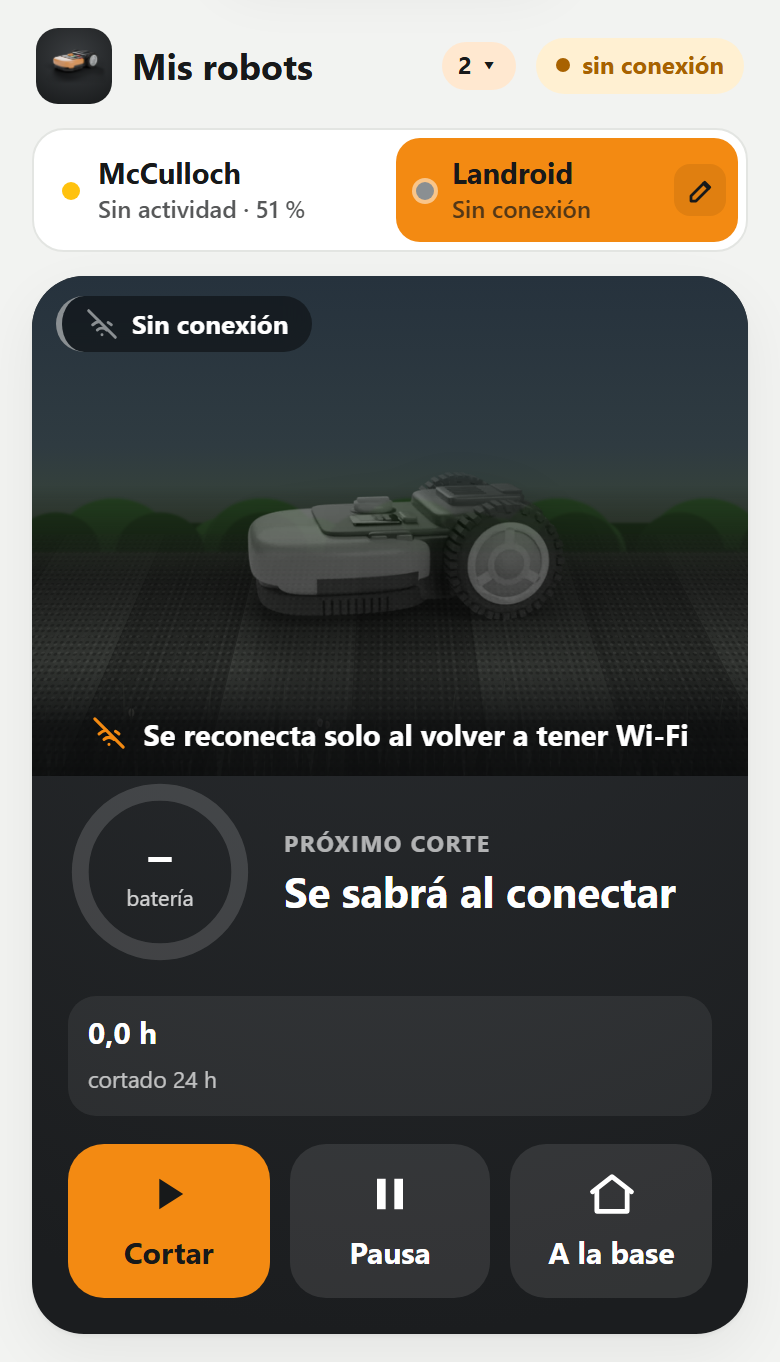
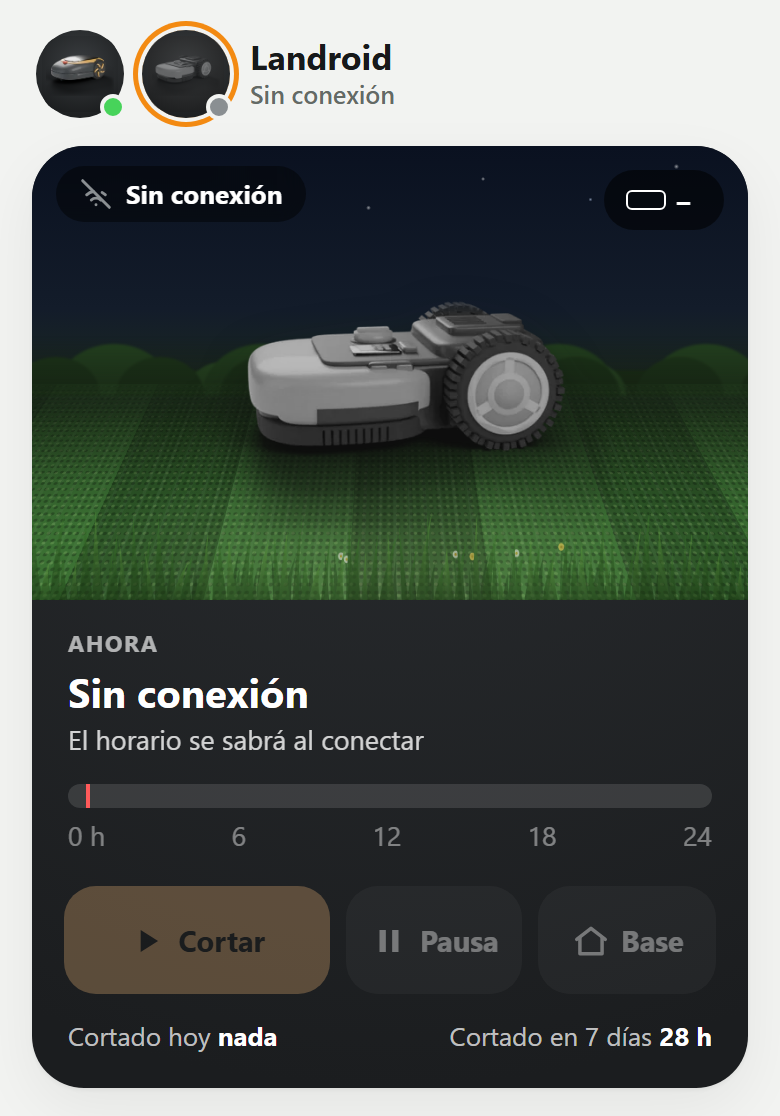
Pasada de fallos: historial sin horas fantasma, avisos sin duplicados, capturas nuevas (v0.3.35)

diff --git a/robot_panel/robot/index.html b/robot_panel/robot/index.html
@@ -812,6 +812,7 @@ document.addEventListener('visibilitychange', () => { if (!document.hidden) chec
 const h1 = v => Number(v).toLocaleString('es-ES', {minimumFractionDigits: 1, maximumFractionDigits: 1});
 // duraciones como en un reloj: «5:20 h» y «45 min», no «5,3 h» ni «0,7 h»; corto = para las barras estrechas («5:20», «45m»)
 const hhmm = (ms, corto) => { const m = Math.round(ms / 6e4); if (m < 60) return m + (corto ? 'm' : ' min');
+  if (m % 60 === 0) return m / 60 + (corto ? 'h' : ' h');  // horas justas: «24 h», que «24:00 h» parece una hora del día
   const t = Math.floor(m / 60) + ':' + String(m % 60).padStart(2, '0'); return corto ? t : t + ' h'; };
 function toast(m){ const t = $('#toast'); t.textContent = m; t.classList.add('show'); clearTimeout(toast.t); toast.t = setTimeout(() => t.classList.remove('show'), 3200); }
 
@@ -989,7 +990,9 @@ function pickRobot(id){
   const app = $('.app'); app.classList.remove('swap'); void app.offsetWidth; app.classList.add('swap');
   document.body.classList.add('stale');  // hasta pintar este robot, nada del anterior a la vista
   lkBuf = ''; drawLkPins(); $('#lkmsg').textContent = '';
-  editing = false; mowed24 = null;
+  editing = false; mowed24 = mowedWeek = null;
+  // las gráficas del robot anterior no se quedan a la vista mientras llegan (o si no llegan) las del nuevo
+  ['#wbars', '#ebars', '#elegend', '#tl', '#legend'].forEach(q => { $(q).innerHTML = ''; }); $('#errtot').textContent = $('#weekmowtot').textContent = '';
   ['#tl','#wbars','#spark'].forEach(s => $(s).innerHTML = ''); $('#legend').textContent = ''; $('#weekmowtot').textContent = ''; $('#sparkinfo').textContent = '';
   window.robot3d && window.robot3d.load(KIND);
   if (Object.keys(states).length) { render(); renderRobots(); } else applyLock();
@@ -1083,7 +1086,8 @@ async function closeRobot(id){
   toast('Bloqueado en este móvil');
   afterRobotsChange();
 }
-$('#pick').onclick = () => { if (ROBOTS.length > 1) { drawSheet(); $('#sheet').hidden = false; } };
+// también con un solo robot: es donde se le cambia el nombre y se le pone contraseña
+$('#pick').onclick = () => { drawSheet(); $('#sheet').hidden = false; };
 $('#sheetx').onclick = () => { $('#sheet').hidden = true; };
 $('#sheet').onclick = e => {
   if (e.target === e.currentTarget) { $('#sheet').hidden = true; return; }
@@ -1190,7 +1194,8 @@ const num = (dom, key) => { const v = val(dom, key); return v == null ? NaN : Nu
 function readMcCulloch(){
   const bat = num('sensor','bateria'), charging = on('binary_sensor','cargando');
   const s = val('sensor','estado'), a = val('sensor','actividad'), m = val('sensor','modo');
-  const offline = !st('lawn_mower') || st('lawn_mower').state === 'unavailable';
+  // «unknown» = conectado pero sin leer aún el estado: tampoco se le pueden dar órdenes (la cabecera ya decía «Sin conexión»)
+  const offline = !st('lawn_mower') || ['unavailable', 'unknown'].includes(st('lawn_mower').state);
   const flags = {kind: 'mcculloch', battery: bat, activity: a, state: s, charging, offline,
     lifted: on('binary_sensor','levantado'), upsideDown: on('binary_sensor','volcado'), collision: on('binary_sensor','choque'),
     error: on('binary_sensor','averia') || s === 'error' || s === 'fatal_error', inBase: on('binary_sensor','en_la_base')};
@@ -1291,7 +1296,8 @@ async function ldDialog(x){  // x: franja a cambiar, o null para añadir
     text: 'Se manda sola y la nube de Worx tarda unos minutos en aplicarla.', fields: [
       {k: 'day', label: 'Día', type: 'select', options: DAYS.map((d, j) => [d, cap(DLONG[j])]), value: x?.day || DAYS[0]},
       {k: 'start', label: 'Empieza', type: 'time', value: x?.start || '09:00'},
-      {k: 'end', label: 'Termina', type: 'time', value: x ? hm(toMin(x.start) + x.duration) : '12:00'},
+      // una franja hasta medianoche es «24:00», que el campo de hora no admite y salía vacío: va como 00:00
+      {k: 'end', label: 'Termina', type: 'time', value: x ? hm(toMin(x.start) + x.duration).replace('24:00', '00:00') : '12:00'},
       {k: 'b', label: 'Repasar los bordes al empezar', type: 'checkbox', value: x?.boundary}]});
   if (!v) return;
   const dur = endMin(v.end) - toMin(v.start);
@@ -1321,7 +1327,8 @@ function readLandroid(){
   const since = lm ? Date.parse(lm.last_changed || lm.last_updated) : NaN, mins = isNaN(since) ? 0 : (Date.now() - since) / 6e4;
   const fence = ls === 'escaped_digital_fence';
   // 1) en la base y sin cargar, o llegó y «falta el cable» (casi siempre es que no conecta bien con la carga)
-  const chargeFail = !offline && !charging && bat != null && bat < 98 && !fence
+  // solo si HA dice que NO carga (un «cargando» sin dato no es un fallo de carga) y hay cifra de batería
+  const chargeFail = !offline && val('binary_sensor','cargando') === 'off' && !isNaN(bat) && bat < 98 && !fence
     && ((ls === 'docked' && mins >= 2) || (['docked', 'idle'].includes(ls) && err === 'wire_missing'));
   // 2) parado fuera de la base y sin ningún error: no es «aparcado», es que algo le pasa
   const stuck = !offline && !charging && !errOn && !fence && ls === 'idle' && mins >= 3 && !chargeFail;
@@ -1383,7 +1390,8 @@ function render(){
   // mientras se elige una hora (el selector abierto aún no ha dado «change») no se rehace el editor
   if (!editing && KIND === 'mcculloch' && !$('#tasks').contains(document.activeElement)) loadEditor(tasks);
   renderDatos(); renderRobot();
-  const upd = st('sensor','bateria')?.last_updated;
+  // el último contacto con el robot; la batería solo cambia de fecha cuando cambia de valor (6 h al 100 % = «hace 6 h»)
+  const upd = d.seen && !isNaN(new Date(d.seen)) ? d.seen : st('sensor','bateria')?.last_updated;
   $('#foot').textContent = upd ? 'Última lectura ' + ago(upd) : '';
   if (st('lawn_mower')) document.body.classList.remove('stale');
 }
@@ -1666,7 +1674,9 @@ function renderRobot(){
 const ACOL = {mowing:'#47d35a', going_out:'#9be27c', going_home:'#ffd257', charging:'#3fa9ff', parked:'#8a8f92', stopped_in_garden:'#ff9f0a', none:'#5b6064',
   edgecut:'#47d35a', returning:'#ffd257', docked:'#8a8f92', paused:'#ff9f0a', error:'#ff3b30', unavailable:'#3a3d40', idle:'#ff9f0a', escaped_digital_fence:'#ff3b30'};
 // historial del robot que se ve; si se cambia de robot a medias, la respuesta vieja se tira
-const hist = async q => { const me = P, j = await (await api(`api/historial?r=${encodeURIComponent(me)}${q}`)).json(); if (me !== P) throw new Error('otro robot'); return j; };
+// un fallo del servidor o de HA no es «sin historial»: se lanza y la gráfica se queda como estaba, sin pintar «nada»
+const hist = async q => { const me = P, r = await api(`api/historial?r=${encodeURIComponent(me)}${q}`), j = r.ok ? await r.json() : null;
+  if (me !== P) throw new Error('otro robot'); if (!Array.isArray(j)) throw new Error('sin historial'); return j; };
 async function loadActivity(){
   if (locked) return;
   try {

diff --git a/robot_panel/robot/sw.js b/robot_panel/robot/sw.js
@@ -1,7 +1,7 @@
 // Service worker de «Mi robot»: guarda la carcasa de la app para que abra al instante y
 // sin red; los datos (api/) van siempre a la red y nunca se sirven de caché.
 // Rutas relativas al ámbito del worker: funciona en la raíz (Pi) y bajo el ingress de HA.
-const CACHE = 'mi-robot-v32';
+const CACHE = 'mi-robot-v33';
 // las vistas del robot (animaciones) también: sin red, un robot que no se ha mirado antes no se quedaba sin dibujo
 const vistas = (dir, vFrames, vBase) => [
   ...Array.from({length: 24}, (_, k) => `static/${dir}/turn_${String(k).padStart(2, '0')}.webp?v=${vFrames}`),

diff --git a/robot_panel/server.py b/robot_panel/server.py
@@ -59,6 +59,26 @@ ALLOWED = {
 WEEK = ("monday", "tuesday", "wednesday", "thursday", "friday", "saturday", "sunday")
 
 
+def cut_offline(act: list[dict], live: list[dict]) -> list[dict]:
+    """Historial de actividad con «unavailable» mientras el cortacésped no está conectado.
+
+    `act` (sensor de actividad, guarda su último valor sin conexión) y `live` (lawn_mower, que sí se cae) son
+    listas {t, v} ordenadas; sale una sola lista {t, v} donde cada tramo sin conexión vale «unavailable»."""
+    off = ("unavailable", "unknown")
+    ev = sorted([(p["t"], 0, p["v"]) for p in act] + [(p["t"], 1, p["v"]) for p in live],
+                key=lambda e: (datetime.fromisoformat(e[0]), e[1]))
+    out, cur, online = [], None, not live  # sin historial del cortacésped no se recorta nada
+    for t, src, v in ev:
+        if src:
+            online = v not in off
+        else:
+            cur = v
+        val = cur if online else "unavailable"
+        if val is not None and (not out or out[-1]["v"] != val):
+            out.append({"t": t, "v": val})
+    return out
+
+
 def load_env() -> None:
     env = HERE / "robot_app.env"
     if env.exists():
@@ -170,10 +190,7 @@ def make_app() -> web.Application:
         ip = client_ip(req)
         if too_many(ip):
             return web.json_response({"error": "Demasiados intentos. Espera unos minutos."}, status=429)
-        try:
-            body = await req.json()
-        except ValueError:
-            body = {}
+        body = await body_of(req)  # un cuerpo que no es un objeto (p. ej. «[]») no tumba la petición
         if not pin or not hmac.compare_digest(str(body.get("pin", "")).encode(), pin.encode()):
             failed(ip)
             return web.json_response({"error": "PIN incorrecto"}, status=403)
@@ -438,6 +455,13 @@ def make_app() -> web.Application:
             return {}
         return body if isinstance(body, dict) else {}
 
+    async def ha_json(r):
+        """Cuerpo de una respuesta de HA; sus errores 401/500 vienen en texto plano y no deben dar un 500 nuestro."""
+        try:
+            return await r.json(content_type=None) if r.content_length != 0 else {}
+        except ValueError:
+            return {}
+
     async def servicio(req):
         if not token:
             return no_token()
@@ -472,7 +496,7 @@ def make_app() -> web.Application:
                                             timeout=ClientTimeout(total=timeout)) as r:
                 if r.status == 200:
                     return True, None
-                j = await r.json(content_type=None) if r.content_length != 0 else {}
+                j = await ha_json(r)
                 return False, (j.get("message") if isinstance(j, dict) else None) or f"HA respondió {r.status}"
         except (ClientError, TimeoutError) as e:
             return False, f"No llego a Home Assistant: {type(e).__name__}"
@@ -508,7 +532,7 @@ def make_app() -> web.Application:
         try:
             # grabar 15 turnos por Bluetooth puede pasar de 20 s: este pide más margen
             async with req.app["http"].post(url, json={"tasks": clean}, timeout=ClientTimeout(total=90)) as r:
-                data = await r.json(content_type=None) if r.content_length != 0 else {}
+                data = await ha_json(r)
                 if r.status != 200:
                     msg = data.get("message") if isinstance(data, dict) else None
                     return web.json_response({"error": msg or f"HA respondio {r.status}"}, status=400 if r.status == 400 else 502)
@@ -537,7 +561,7 @@ def make_app() -> web.Application:
         else:
             try:
                 minutes = int(body.get("duration"))
-            except (TypeError, ValueError):
+            except (TypeError, ValueError, OverflowError):  # OverflowError: un «1e999» del cliente
                 minutes = 0
             if not 1 <= minutes <= 1440 - (int(start[:2]) * 60 + int(start[3:])):
                 return web.json_response({"error": "la hora de fin tiene que ser después del inicio (y el mismo día)"}, status=400)
@@ -566,7 +590,7 @@ def make_app() -> web.Application:
         if kinds[rid] == "landroid":
             try:
                 minutes = round(float(body.get("horas")) * 60)
-            except (TypeError, ValueError):
+            except (TypeError, ValueError, OverflowError):
                 minutes = 0
             if body.get("accion") != "cortar" or not 10 <= minutes <= 120:  # lo que admite su «one-time schedule»
                 return web.json_response({"error": "El Landroid corta de 10 min a 2 h seguidas"}, status=400)
@@ -584,7 +608,7 @@ def make_app() -> web.Application:
             async with req.app["http"].post(f"{ha}/api/services/mcculloch_rob/{service}", json={"hours": hours},
                                             timeout=ClientTimeout(total=60)) as r:
                 if r.status != 200:
-                    data = await r.json(content_type=None) if r.content_length != 0 else {}
+                    data = await ha_json(r)
                     msg = data.get("message") if isinstance(data, dict) else None
                     return web.json_response({"error": msg or f"HA respondio {r.status}"}, status=502)
         except (ClientError, TimeoutError) as e:
@@ -614,14 +638,22 @@ def make_app() -> web.Application:
         url = f"{ha}/api/history/period/{start}"
         # end_time siempre: sin él HA corta en inicio + 1 día, y la semana traía solo el primer día (el último
         # estado de ese día se estiraba hasta hoy: 6 días «cortando» = más de 100 h, o 0 h si era «en la base»)
-        params = {"filter_entity_id": entity, "end_time": now.isoformat(), "minimal_response": "", "no_attributes": ""}
+        # la actividad del McCulloch se queda con su último valor sin conexión (es un sensor): se pide también el
+        # cortacésped, que sí pasa a «unavailable», para no contar horas «cortando» con el robot lejos o sin batería
+        live = f"lawn_mower.{rid}" if entity.endswith("_actividad") else None
+        params = {"filter_entity_id": f"{entity},{live}" if live else entity, "end_time": now.isoformat(),
+                  "minimal_response": "", "no_attributes": ""}
         try:
             async with req.app["http"].get(url, params=params) as r:
-                data = await r.json() if r.status == 200 else []
+                if r.status != 200:  # un fallo de HA no es «sin historial»: la app no debe pintar «nada cortado»
+                    return web.json_response({"error": f"HA respondió {r.status}"}, status=502)
+                data = await ha_json(r)
         except (ClientError, TimeoutError) as e:
             return unreachable(e)
-        pts = [{"t": p["last_changed"], "v": p["state"]} for serie in data for p in serie]
-        return web.json_response(pts)
+        series = {s[0].get("entity_id"): [{"t": p["last_changed"], "v": p["state"]} for p in s]
+                  for s in data if isinstance(s, list) and s}
+        pts = series.get(entity, [])
+        return web.json_response(cut_offline(pts, series.get(live, [])) if live else pts)
 
     @web.middleware
     async def no_cache(req, handler):

diff --git a/robot_panel/push.py b/robot_panel/push.py
@@ -283,7 +283,7 @@ def setup_push(app: web.Application, here: Path, ha: str, token: str, robots: li
         p = r["id"]
         if r["kind"] == "landroid":
             return {"lm": f"lawn_mower.{p}", "error": f"sensor.{p}_error", "seen": f"sensor.{p}_ultima_actualizacion"}
-        return {"averia": f"binary_sensor.{p}_averia", "volcado": f"binary_sensor.{p}_volcado",
+        return {"lm": f"lawn_mower.{p}", "averia": f"binary_sensor.{p}_averia", "volcado": f"binary_sensor.{p}_volcado",
                 "levantado": f"binary_sensor.{p}_levantado", "actividad": f"sensor.{p}_actividad",
                 "error": f"sensor.{p}_error", "seen": f"sensor.{p}_ultima_conexion"}
 
@@ -323,11 +323,14 @@ def setup_push(app: web.Application, here: Path, ha: str, token: str, robots: li
                 }
                 tip = "¿Sin Wi-Fi o apagado?"
             else:
+                # sus sensores guardan el último valor sin conexión: una avería vieja no se repite cada 6 h con el robot lejos
+                vivo = g("lm") not in (None, "unavailable", "unknown")
+                on = lambda k: vivo and g(k) == "on"  # noqa: E731
                 rule = {
                     "averia": (on("averia"), 60, f"⚠ {name}: {err_text('mcculloch', g('error'))}. Revísalo y confírmalo en su teclado."),
                     "volcado": (on("volcado"), 30, f"⚠ {name} está volcado. Dale la vuelta y confirma en el robot."),
                     "levantado": (on("levantado"), 120, f"{name} lleva un rato levantado. Déjalo en el césped para que siga."),
-                    "parado": (g("actividad") == "stopped_in_garden", 600, f"{name} se ha parado en el jardín y espera que alguien lo atienda."),
+                    "parado": (vivo and g("actividad") == "stopped_in_garden", 600, f"{name} se ha parado en el jardín y espera que alguien lo atienda."),
                 }
                 tip = "¿Lejos del receptor o sin batería?"
             # activos desde el principio; la espera es lo que falta para cumplir el plazo
@@ -352,12 +355,17 @@ def setup_push(app: web.Application, here: Path, ha: str, token: str, robots: li
         seen = seen_dt(rid)
         if "sin_conexion" in cid and seen and offline_for.get(cid) == seen.isoformat():
             return  # ya se avisó de esta misma desconexión
-        if not subs or now - last.get(cid, 0) < COOLDOWN or len(day) >= DAY_MAX:
+        # el enfriamiento de una avería va por avería (su texto): otra distinta a las 2 h no se calla
+        key = f"{cid}:{text}" if cid.endswith(":averia") else cid
+        if not subs or now - last.get(key, 0) < COOLDOWN or len(day) >= DAY_MAX:
             return
-        if not await asyncio.get_running_loop().run_in_executor(None, holds_vip):
-            return  # avisa la otra Pi (la que tiene la IP virtual)
-        if await send({"title": info().get(rid, {}).get("name") or "Mis robots", "body": text, "tag": cid, "url": "./"}, robot=rid):
-            last[cid] = now
+        # avisa la Pi que tiene la IP virtual; la otra lo apunta igual (las dos ven lo mismo), para no repetirlo
+        # ni saltarse el tope si le toca tomar el relevo
+        vip = await asyncio.get_running_loop().run_in_executor(None, holds_vip)
+        if not vip or await send({"title": info().get(rid, {}).get("name") or "Mis robots", "body": text, "tag": cid, "url": "./"}, robot=rid):
+            for k in [k for k, t in last.items() if k.count(":") > 1 and now - t > 86400]:
+                del last[k]  # las claves por avería no se acumulan
+            last[key] = now
             mem["day"] = day + [now]
             if "sin_conexion" in cid and seen:
                 offline_for[cid] = seen.isoformat()
@@ -417,11 +425,18 @@ def setup_push(app: web.Application, here: Path, ha: str, token: str, robots: li
                         if not ev:
                             continue
                         prev = {rid: seen_dt(rid) for rid in E}
+                        seen_ids = {ent["seen"] for ent in E.values()}
+
+                        def put(eid, s):
+                            # el «último contacto» no se pisa con «no disponible»: sin fecha no hay aviso de
+                            # sin conexión ni de que vuelve
+                            if not (eid in seen_ids and s in (None, "unavailable", "unknown") and cur.get(eid)):
+                                cur[eid] = s
                         for eid, v in (ev.get("a") or {}).items():
-                            cur[eid] = v.get("s")
+                            put(eid, v.get("s"))
                         for eid, v in (ev.get("c") or {}).items():
                             if "s" in (v.get("+") or {}):
-                                cur[eid] = v["+"]["s"]
+                                put(eid, v["+"]["s"])
                         evaluate(prev)
             except asyncio.CancelledError:
                 raise

diff --git a/robot_panel/test_server.py b/robot_panel/test_server.py
@@ -16,6 +16,13 @@ server.HERE = Path(tempfile.mkdtemp())  # .app_secret de usar y tirar
 
 
 async def main():
+    # historial: el robot se queda sin conexión a medio cortar; ese tramo no cuenta como «cortando»
+    T = "2026-11-10T%02d:00:00+00:00"
+    got = server.cut_offline([{"t": T % 9, "v": "mowing"}, {"t": T % 20, "v": "parked"}],
+                             [{"t": T % 8, "v": "mowing"}, {"t": T % 11, "v": "unavailable"}, {"t": T % 19, "v": "mowing"}])
+    assert got == [{"t": T % 9, "v": "mowing"}, {"t": T % 11, "v": "unavailable"}, {"t": T % 19, "v": "mowing"},
+                   {"t": T % 20, "v": "parked"}], got
+    assert server.cut_offline([{"t": T % 9, "v": "mowing"}], []) == [{"t": T % 9, "v": "mowing"}]  # sin cortacésped: tal cual
     # avisos al cumplirse el plazo: los de plazo fijo (avería, vuelco...) basta con que sigan activos;
     # los «sin conexión» solo cuando ya no falta nada
     from push import _due

diff --git a/CHANGELOG.md b/CHANGELOG.md
@@ -2,6 +2,33 @@
 
 Todas las versiones de la integración, la tarjeta y la app. Lo más nuevo, arriba.
 
+## v0.3.35 · Pasada de fallos: historial, avisos y capturas nuevas
+
+_Revisión completa del servidor, los avisos y la app._
+
+#### App
+- **No se cuentan horas «cortando» con el McCulloch sin conexión**: su sensor de actividad guarda el último valor, y si se quedaba sin batería a medio cortar seguía sumando hasta que volviera. El servidor recorta esos tramos.
+- **Un fallo de Home Assistant ya no se pinta como «nada cortado»**: las gráficas se quedan como estaban.
+- **«Error al cargar» solo si HA dice que no carga**: un «cargando» sin dato ya no lo dispara.
+- **Con un solo robot se puede abrir «Mis robots»** (cambiarle el nombre, ponerle contraseña): antes no se abría.
+- Franja del Landroid **hasta medianoche**: al cambiarla, la hora de fin salía vacía y no dejaba guardar.
+- **«Última lectura»** usa el último contacto con el robot (antes, la fecha de la batería: 6 h al 100 % era «hace 6 h»).
+- Al **cambiar de robot** no se quedan a la vista las gráficas ni «Cortado en 7 días» del anterior.
+- McCulloch conectado pero sin leer aún el estado: «Sin conexión» en toda la pantalla (la escena decía «Parado» con los botones activos).
+- Horas justas como «24 h» (no «24:00 h»).
+
+#### Avisos al móvil
+- **Sin duplicados al cambiar de Pi**: la que está de reserva apunta también cada aviso, así que al tomar el relevo no repite el «lleva 1 día sin conexión» ni se salta el tope diario.
+- **Una avería distinta ya no se calla** por las 6 h de espera de la anterior (la espera va por avería).
+- **Una avería vieja del McCulloch no se repite** cada 6 h mientras está sin conexión.
+- El «último contacto» no se pierde si el sensor pasa un momento a «no disponible» (se quedaba sin aviso de sin conexión y de vuelta).
+
+#### Servidor
+- Respuestas de error de HA en texto plano, un cuerpo de login que no es un objeto o un número desbordado ya no dan un error 500.
+
+#### Repo
+- **Capturas del README al día** (pantalla principal, Landroid, bloqueo y tarjetas) y dos nuevas: **Horario** y **Datos**.
+
 ## v0.3.34 · Horas como en un reloj y un solo «Sin conexión»
 
 #### App

diff --git a/README.md b/README.md
@@ -21,6 +21,11 @@ Tus robots cortacésped en Home Assistant, en una tarjeta y en una app para el m
   &nbsp;
   <img src="docs/bloqueo.png" alt="Robot con contraseña: teclado para desbloquearlo" width="250">
 </p>
+<p align="center">
+  <img src="docs/horario.png" alt="Pestaña Horario: la semana programada de un vistazo y el editor de franjas con plantillas" width="250">
+  &nbsp;
+  <img src="docs/datos.png" alt="Pestaña Datos: actividad y batería de las últimas 24 horas, lo cortado cada día de la semana y las paradas por error" width="250">
+</p>
 
 <p align="center"><b>Tarjeta de Home Assistant</b>: uno o dos robots, cada uno con su modelo, su color y sus órdenes.</p>
 <p align="center"><img src="docs/tarjeta.png" alt="Tarjeta con el McCulloch: cortando, cargando y volviendo a la base (se queda a medio entrar)" width="860"></p>
